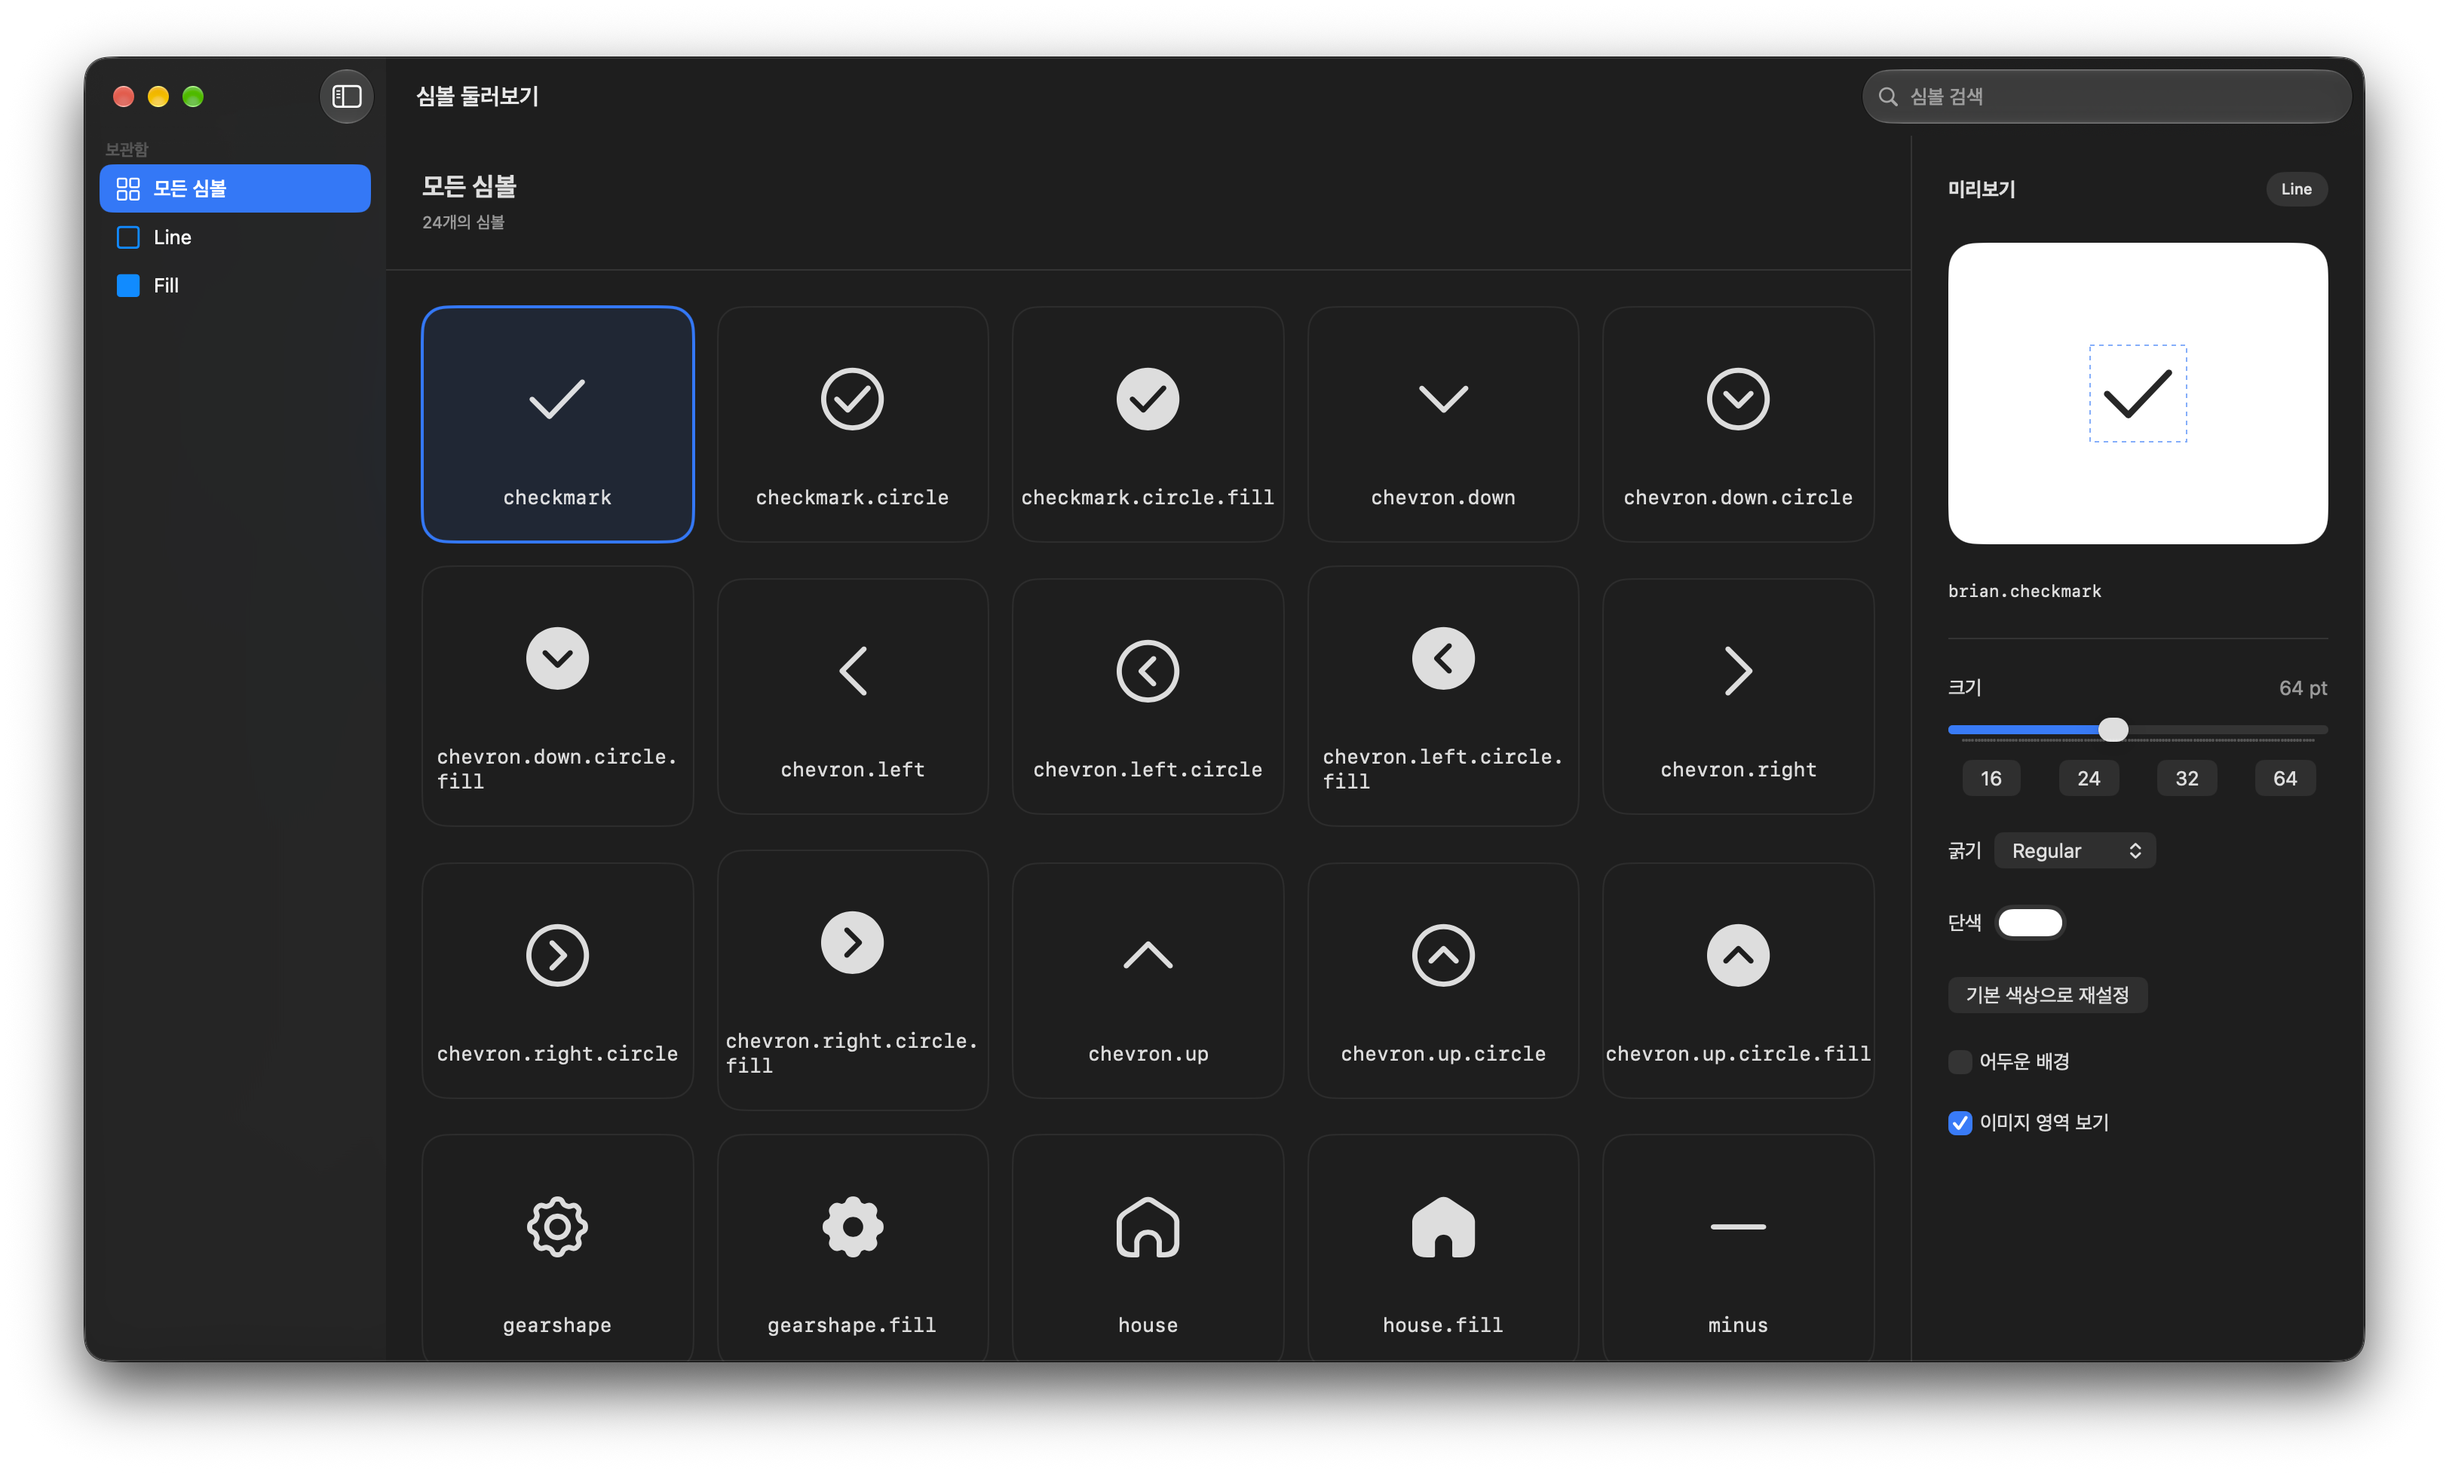
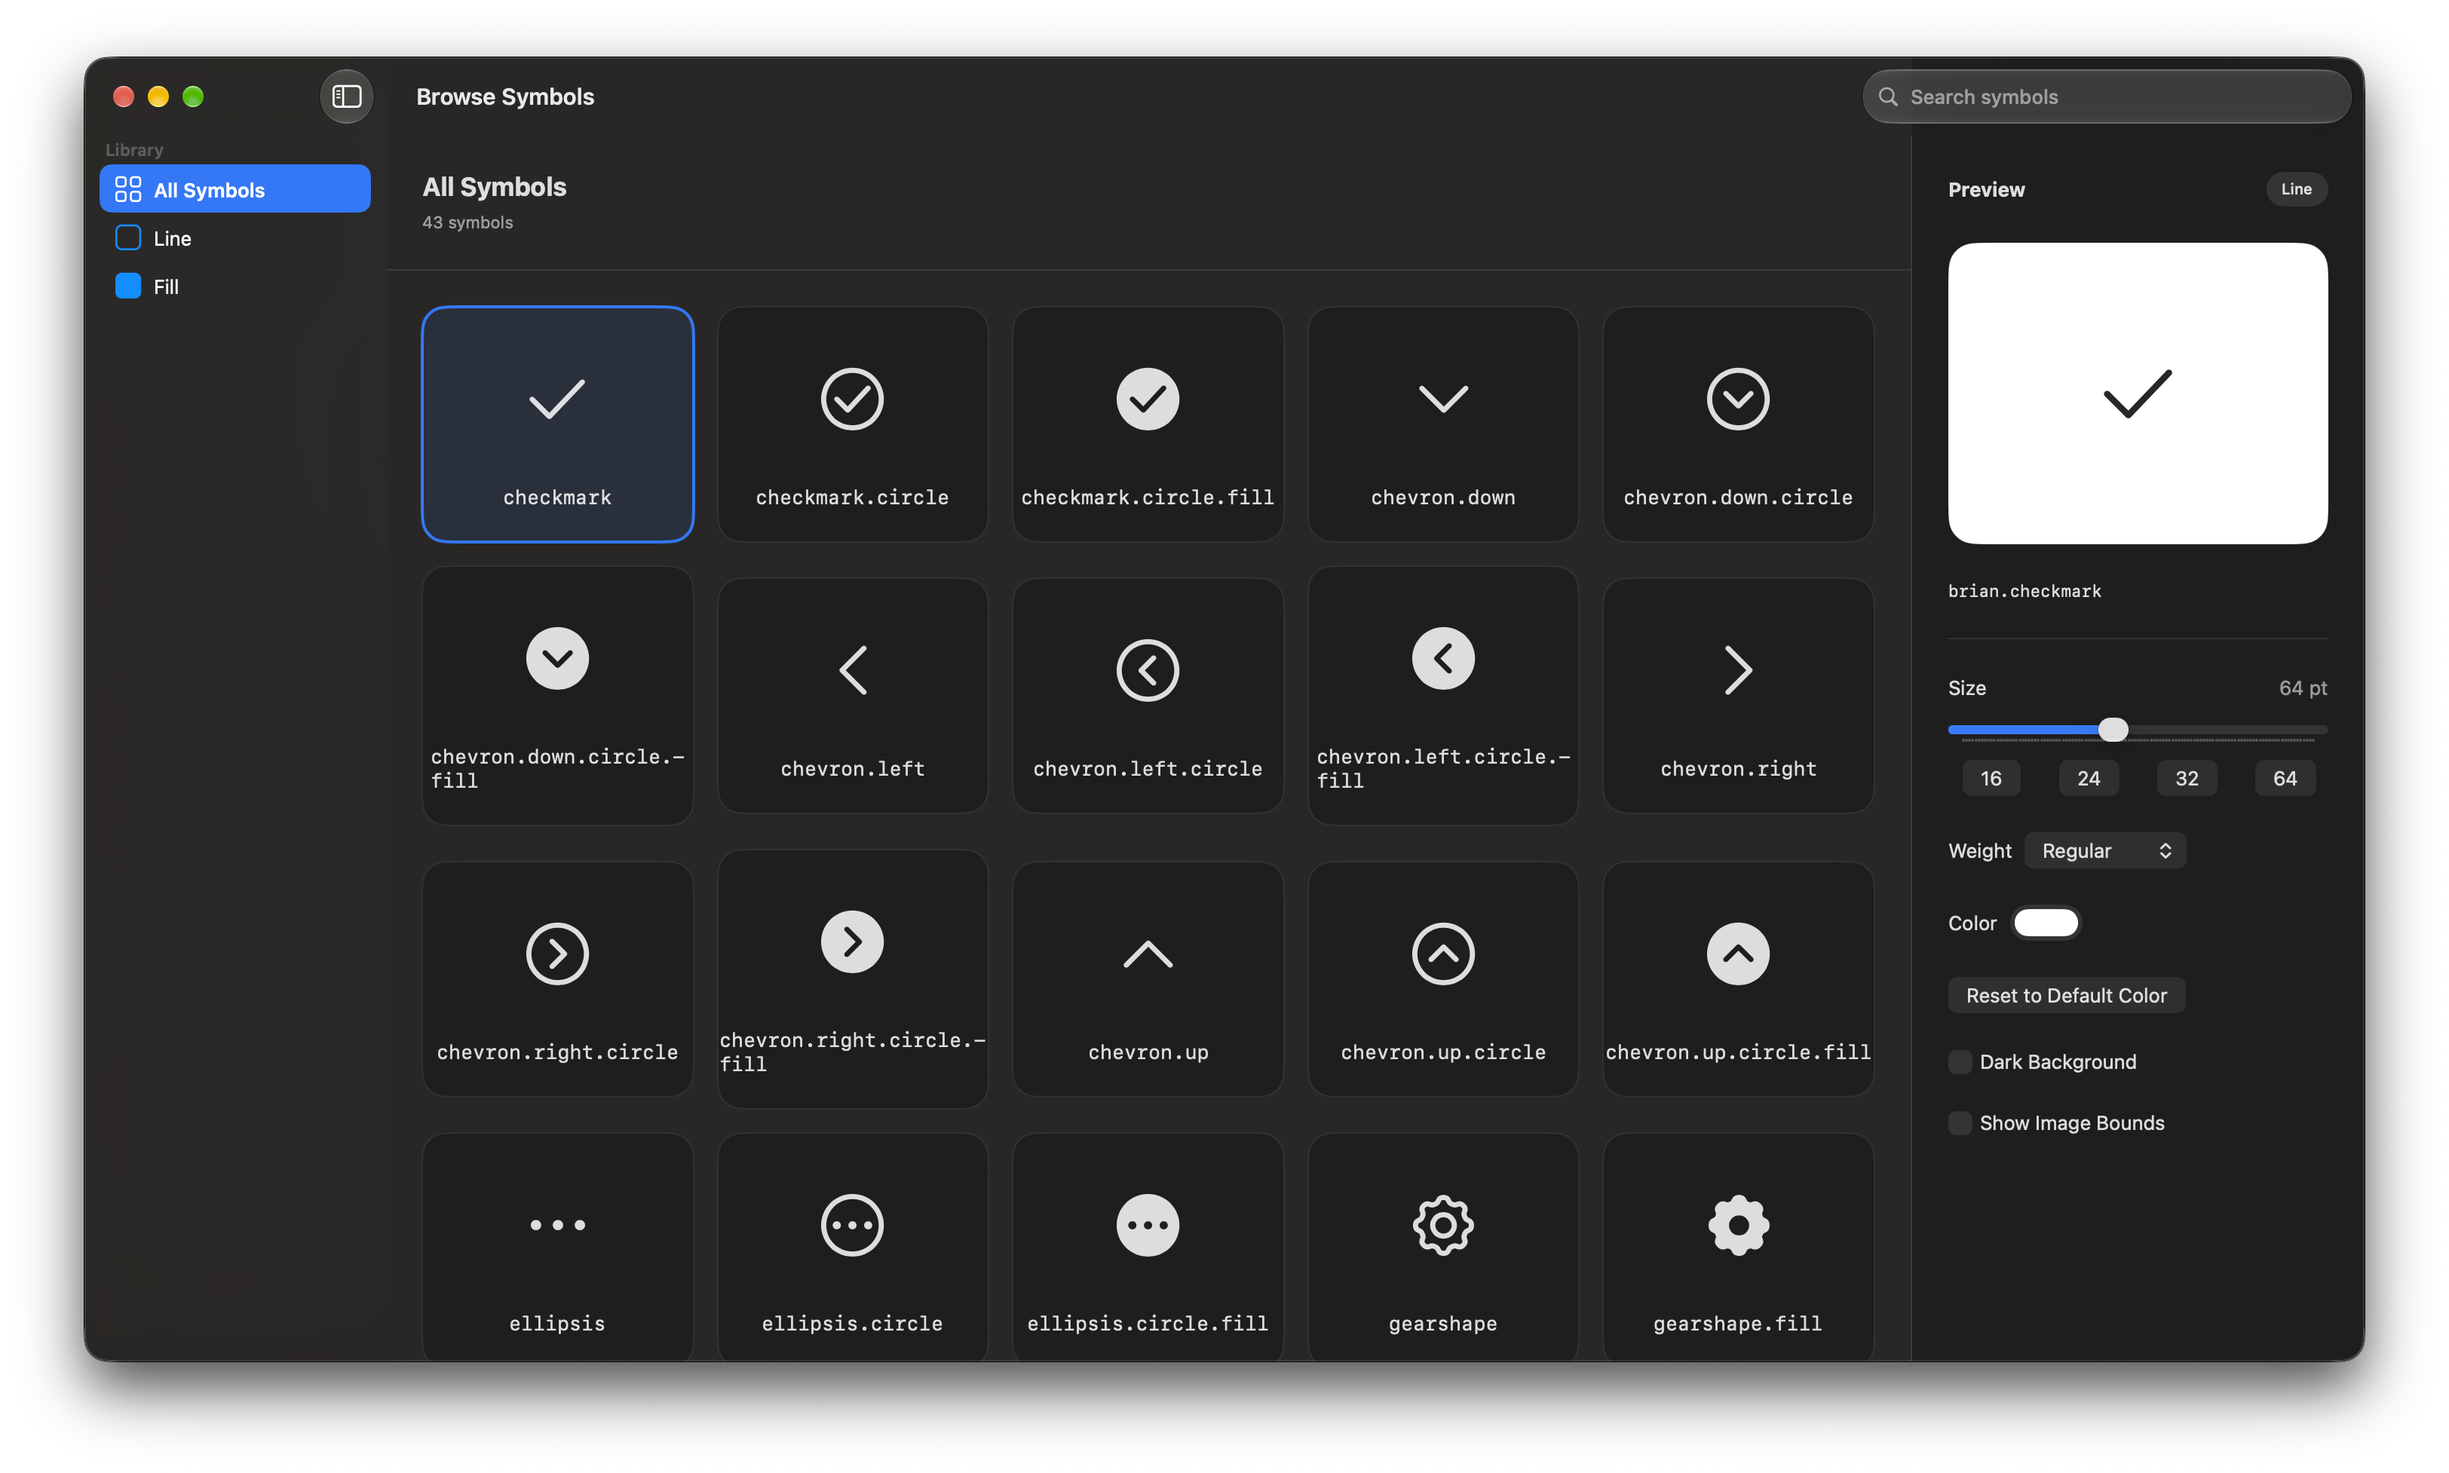
docs: provide English and Korean READMEs with localized previews
Document Swift build requirements and the minimum macOS version for the demo.

diff --git a/README.md b/README.md
@@ -2,18 +2,21 @@
 
 # Brian Symbols
 
-커스텀 SF Symbol을 제공하는 Swift Package.
-에셋과 공개 이름은 패키지에서 관리하며, 제공 항목과 개별 사양은 [에셋 목록](docs/symbol-assets.md)에서 확인할 수 있다.
+**English** · [한국어](README.ko.md)
 
-## 설치
-- iOS 16 이상 / macOS 13 이상
+A Swift package providing custom SF Symbols.
+The package manages assets and their public names. See the [asset catalog and specifications](docs/symbol-assets.md) for available symbols.
+
+## Installation
+
+- iOS 16+ / macOS 13+
+- Swift 6.4+ to build the package
 
 ```swift
 .package(url: "https://github.com/thebriancompany/swift-brian-symbols.git", exact: "0.1.0")
 ```
 
-
-## 사용 방법
+## Usage
 
 ```swift
 import SwiftUI
@@ -29,18 +32,21 @@ Image(brianSymbol: .house)
 Image(brianSymbol: .houseFill)
 ```
 
-- `Image(brianSymbol:)`은 패키지의 리소스 번들에서 에셋을 찾는다.
-- UIKit·AppKit에서 직접 불러올 때는 `BrianSymbol.resourceBundle`과 심볼의 `rawValue`를 사용한다.
+- `Image(brianSymbol:)` loads assets from the package resource bundle.
+- To load assets directly in UIKit or AppKit, use `BrianSymbol.resourceBundle` and the symbol’s `rawValue`.
 
+## Demo
 
-##  데모
- [BrianSymbolsDemo.xcworkspace](Demo/BrianSymbolsDemo.xcworkspace)를 통해 확인 가능하다.
+The demo app requires macOS 14+.
+Open [BrianSymbolsDemo.xcworkspace](Demo/BrianSymbolsDemo.xcworkspace) to explore the symbols.
 
 ![Demo-Cover](docs/assets/demo-cover.png)
 
-## 문서
+## Documentation
 
-- [에셋 목록과 개별 사양](docs/symbol-assets.md)
-- [형태와 이름 규칙](docs/symbol-naming.md)
-- [심볼 제작·등록 가이드](docs/symbol-authoring.md)
-- [크기와 정렬 기준](docs/symbol-sizing.md)
+The README is available in English and Korean. All other documentation is in English.
+
+- [Asset catalog and specifications](docs/symbol-assets.md)
+- [Shapes and naming conventions](docs/symbol-naming.md)
+- [Symbol authoring and registration](docs/symbol-authoring.md)
+- [Sizing and alignment](docs/symbol-sizing.md)

diff --git a/README.ko.md b/README.ko.md
@@ -1,0 +1,52 @@
+![Cover](docs/assets/cover.webp)
+
+# Brian Symbols
+
+[English](README.md) · **한국어**
+
+커스텀 SF Symbol을 제공하는 Swift Package.
+에셋과 공개 이름은 패키지에서 관리하며, 제공 항목과 개별 사양은 [에셋 목록](docs/symbol-assets.md)에서 확인할 수 있다.
+
+## 설치
+
+- iOS 16 이상 / macOS 13 이상
+- 패키지 빌드에 Swift 6.4 이상 필요
+
+```swift
+.package(url: "https://github.com/thebriancompany/swift-brian-symbols.git", exact: "0.1.0")
+```
+
+## 사용 방법
+
+```swift
+import SwiftUI
+import BrianSymbols
+
+Image(brianSymbol: .house)
+    .symbolRenderingMode(.monochrome)
+    .foregroundStyle(.primary)
+    .font(.system(size: 24, weight: .regular))
+    .imageScale(.small)
+    .frame(width: 24, height: 24)
+
+Image(brianSymbol: .houseFill)
+```
+
+- `Image(brianSymbol:)`은 패키지의 리소스 번들에서 에셋을 찾는다.
+- UIKit·AppKit에서 직접 불러올 때는 `BrianSymbol.resourceBundle`과 심볼의 `rawValue`를 사용한다.
+
+## 데모
+
+데모 앱은 macOS 14 이상에서 실행할 수 있다.
+[BrianSymbolsDemo.xcworkspace](Demo/BrianSymbolsDemo.xcworkspace)를 통해 확인 가능하다.
+
+![Demo-Cover](docs/assets/demo-cover.ko.png)
+
+## 문서
+
+README는 영어와 한국어로 제공하며, 나머지 문서는 영어로 제공합니다.
+
+- [에셋 목록과 개별 사양](docs/symbol-assets.md)
+- [형태와 이름 규칙](docs/symbol-naming.md)
+- [심볼 제작·등록 가이드](docs/symbol-authoring.md)
+- [크기와 정렬 기준](docs/symbol-sizing.md)
